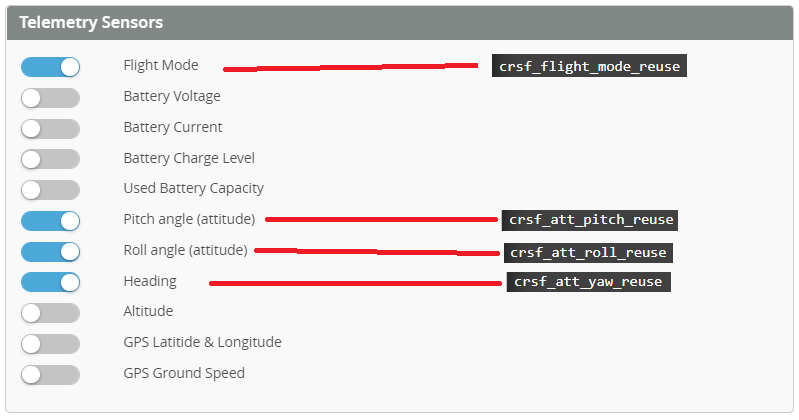
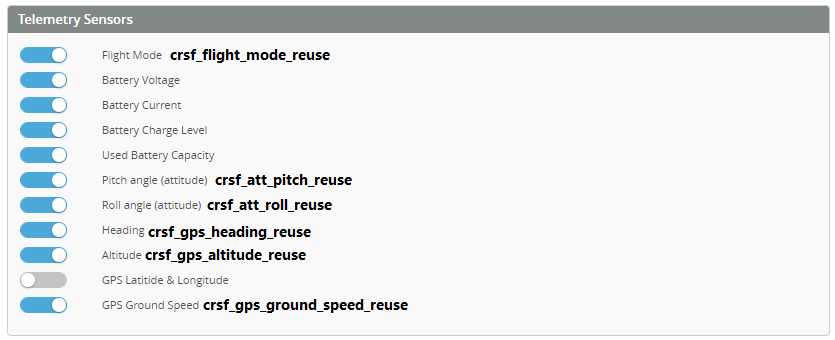
new file:   announcement/2024-02-18-snapshot 2.0.0.md 	modified:   docs/Tutorial-Setup/Receiver.md 	modified:   docs/Tutorial-Setup/img/receiver-telem-reuse.png

Changed region(s): [[0.0, 0.0, 0.9912, 0.9412], [0.1202, 0.5, 0.8711, 0.7059], [0.1202, 0.1176, 0.8711, 0.2059]]

diff --git a/announcement/2024-02-18-snapshot 2.0.0.md b/announcement/2024-02-18-snapshot 2.0.0.md
@@ -1,0 +1,90 @@
+---
+title: snapshot 2.0.0-20240218
+authors:
+  name: Rotorflight
+  image_url: https://github.com/rotorflight.png
+---
+
+Rotorflight snapshot 2.0.0-20240218 is ready
+
+ If you wish to become involved in testing these snapshots please contact us on the [Discord](https://discord.gg/6QUySXdEvd)
+
+:::danger
+This snapshot is not suitable for end-users. It is intended for beta-testers. Please realize that this software is under heavy development and as such there may be bugs or unintended control issues. Please test with care.
+:::
+
+
+:::tip Downloads 
+#### [Download The Configurator here](https://github.com/rotorflight/rotorflight-configurator/releases/tag/snapshot%2F2.0.0-20240218).  
+#### [Download Blackbox here](https://github.com/rotorflight/rotorflight-blackbox/releases/tag/snapshot%2F2.0.0-20240218).  
+#### [OpenTX/EdgeTX LUA Scripts](https://github.com/rotorflight/rotorflight-lua-scripts/releases/tag/snapshot%2F2.0.0-20240218)  
+#### [Ethos LUA Scripts](https://github.com/rotorflight/rotorflight-lua-ethos/releases/tag/snapshot%2F2.0.0-20240218)
+:::
+
+Please also read the [Snapshots Wiki page](https://github.com/rotorflight/rotorflight/wiki/Snapshots) for general information about snapshots.
+
+
+### Changes from 2.0.0-20240128
+
+#### Changes to the Firmware:
+
+* More CRSF reuse options
+* Fix CRSF headspeed reuse with EdgeTx >= 2.9.3
+* Fix governor autorotation timeout limits
+* Fix battery cell count detection with 10S and 12S
+* Add OpenYGE ESC telemetry
+* Add lowpass filter to governor feedforward
+* Refactor MSP_BATTERY_CONFIG
+* Improved defaults
+  * Stick deadband and deflection
+  * Rescue gains and collective levels
+  * Governor filter cutoffs
+  * Cross-coupling gain
+  * PID error limits
+
+#### Changes to the Configurator:
+
+* Add OpenYGE ESC protocol
+* Add Battery Cell Count to Power tag
+* Add Governor Precomp Bandwidth to Motors tab
+* Relax servo parameter checks
+* Increase max yaw to 60° in Mixer
+* Improved code in Status page
+* Refactor MSP_BATTERY_CONFIG
+
+#### Changes to the BlackBox:
+
+* Add friendly names for RESCUE_ALTHOLD debug
+
+#### Changes to the LUA Scripts:
+
+* Aligned with the firmware changes
+
+
+### A few notes about the 20240218 snapshot
+
+#### CRSF Reuse
+
+EdgeTx 2.9.3 broke the CRSF sensor reuse by changing the sensor scaling.
+The CRSF reuse has now been refactored for better support for different EdgeTx versions.
+
+There are now more sensors that can be reused. The reusable sensors in the GPS frame are altitude, heading, ground speed, and satellite count.
+
+The reuse options are now selected based on the original sensor scaling, so that the reused value can be expressed correctly.
+
+For most reuse options, the "ratio" in EdgeTx is a variation of 255.
+E.g. 25.5, 255, 2550, 25500. (including RPM!)
+
+The voltage sensors use 20 or 200.
+
+#### OpenYGE ESC Telemetry
+
+There is now telemetry support for YGE ESCs (thanks Bob!). This is a brand new protocol implemented by YGE especially for Rotorflight. It will be available in the next ESC firmware update from YGE.
+
+#### Default values in the Firmware
+
+Many defaults have been improved. Please note that you won't get any new defaults if you load a dump all from the previous snapshot. Probably better to use a diff all, which will apply only the parameter values that are not on default values.
+
+Next one will be a Release Candidate, so please report any issues promptly!
+
+Happy tuning (and maybe even flying)! 

diff --git a/docs/Tutorial-Setup/Receiver.md b/docs/Tutorial-Setup/Receiver.md
@@ -102,11 +102,24 @@ As a temporary fix for this issue a series of telemetry items that are currently
     `set crsf_att_pitch_reuse = [OPTION]`  
     [Option] Allowed values: NONE, HEADSPEED, THROTTLE, ESC_TEMP, MCU_TEMP, MCU_LOAD, SYS_LOAD, RT_LOAD, BEC_VOLTAGE, BUS_VOLTAGE, MCU_VOLTAGE
 3. Roll attitude
-    `set crsf_att_roll_reuse = [OPTION]`  
+    `set crsf_att_roll_reuse = [OPTION]`   
     [Option] Allowed values: NONE, HEADSPEED, THROTTLE, ESC_TEMP, MCU_TEMP, MCU_LOAD, SYS_LOAD, RT_LOAD, BEC_VOLTAGE, BUS_VOLTAGE, MCU_VOLTAGE 
 4. Yaw position
     `set crsf_att_yaw_reuse = [OPTION]`  
-    [Option] Allowed values: NONE, HEADSPEED, THROTTLE, ESC_TEMP, MCU_TEMP, MCU_LOAD, SYS_LOAD, RT_LOAD, BEC_VOLTAGE, BUS_VOLTAGE, MCU_VOLTAGE 
+    [Option] Allowed values: NONE, HEADSPEED, THROTTLE, ESC_TEMP, MCU_TEMP, MCU_LOAD, SYS_LOAD, RT_LOAD, BEC_VOLTAGE, BUS_VOLTAGE, MCU_VOLTAGE
+5. GPS Heading
+    `set crsf_gps_heading_reuse = [OPTION]`  
+    [Option] Allowed values: NONE, HEADSPEED, THROTTLE, ESC_TEMP, MCU_TEMP, MCU_LOAD, SYS_LOAD, RT_LOAD
+6. GPS Ground Speed
+    `set crsf_gps_ground_speed_reuse = [OPTION]`  
+    [Option] Allowed values: NONE, HEADSPEED, THROTTLE, ESC_TEMP, MCU_TEMP, MCU_LOAD, SYS_LOAD, RT_LOAD
+7. GPS Altitude
+    `set crsf_gps_altitude_reuse = [OPTION]`  
+    [Option] Allowed values: NONE, HEADSPEED, THROTTLE, ESC_TEMP, MCU_TEMP, MCU_LOAD, SYS_LOAD, RT_LOAD
+8. GPS Sats
+    `set crsf_gps_sats_reuse = [OPTION]`  
+    [Option] Allowed values: NONE, ESC_TEMP, MCU_TEMP, PROFILE, RATE_PROFILE, LED_PROFILE
+
 
 To use this feature:
 * Enable Telemetry. If you have not done so already enable the telemetry toggle on the receiver tab.
